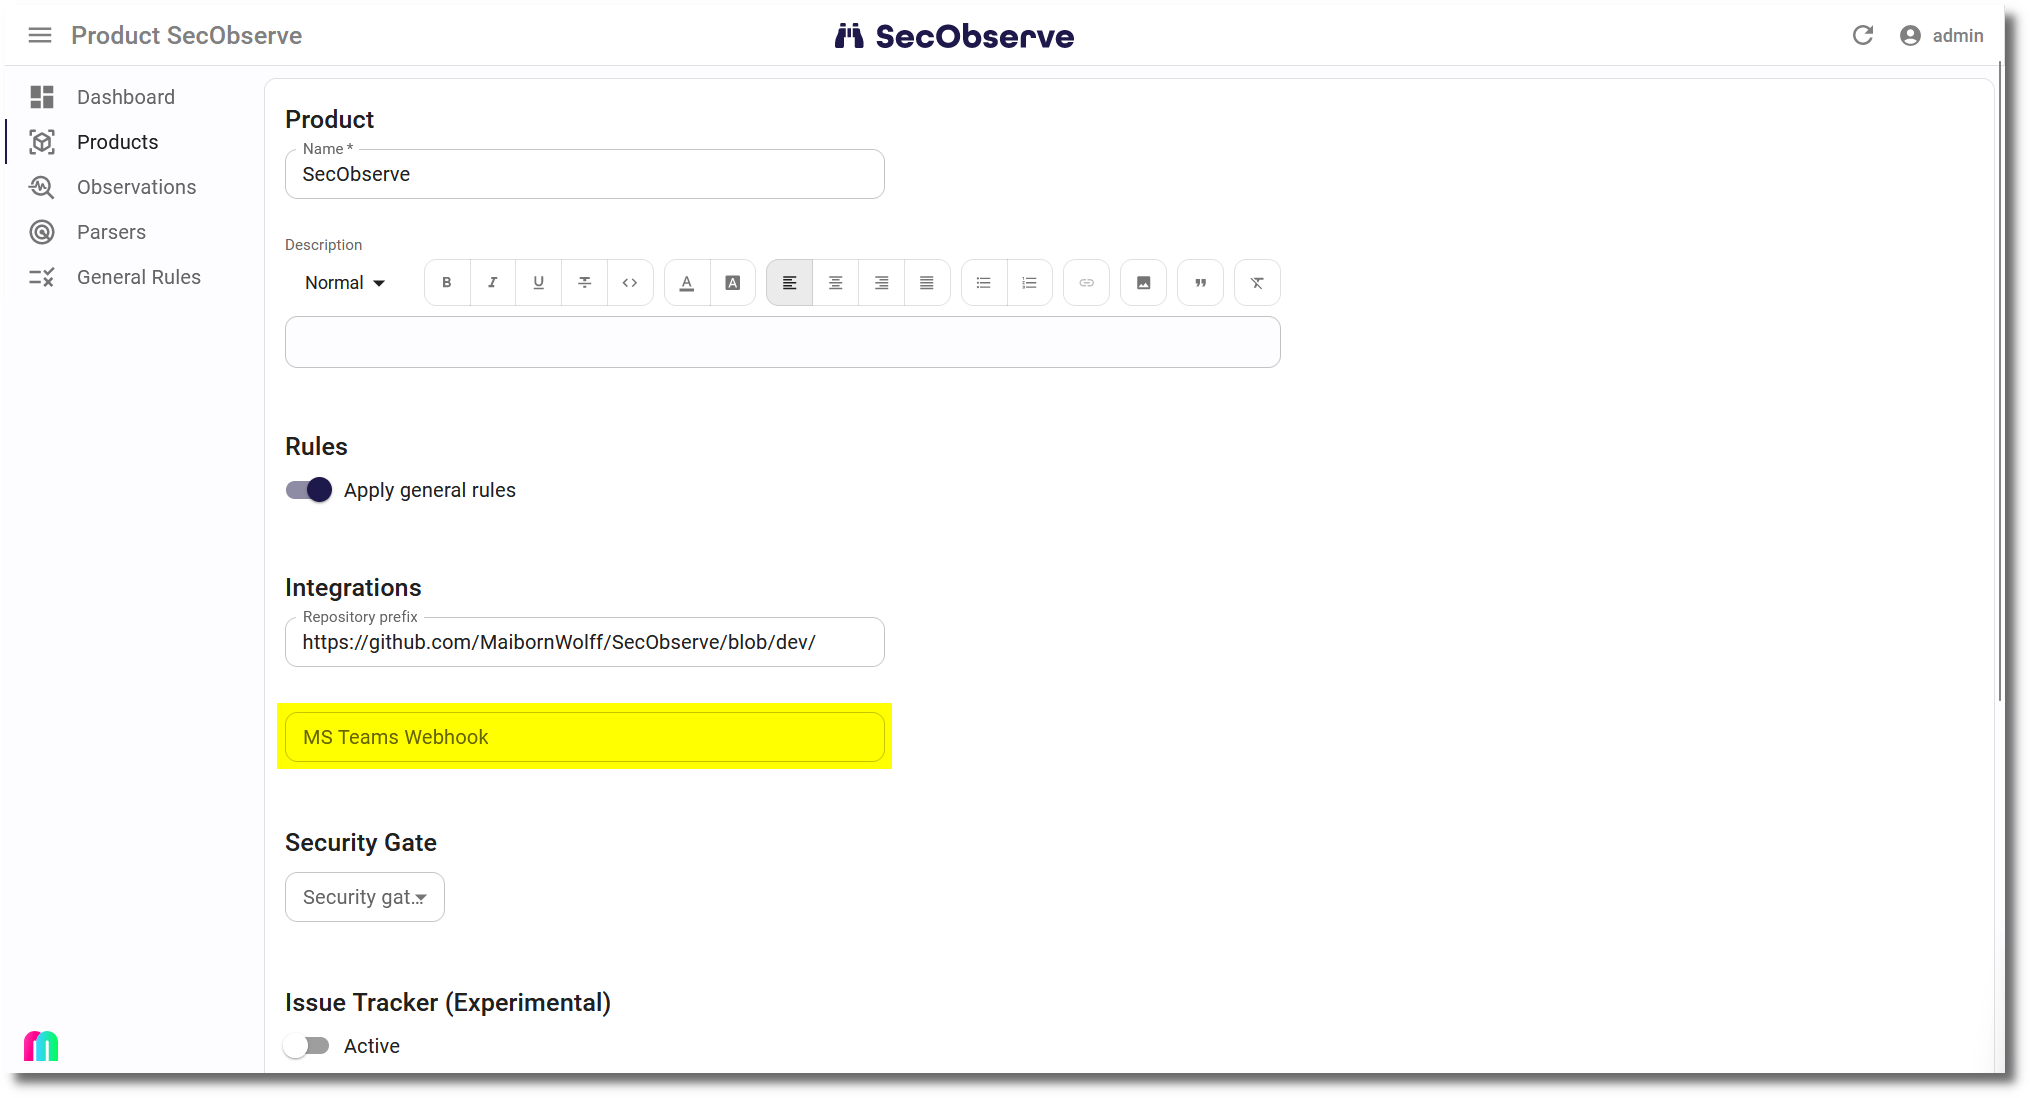
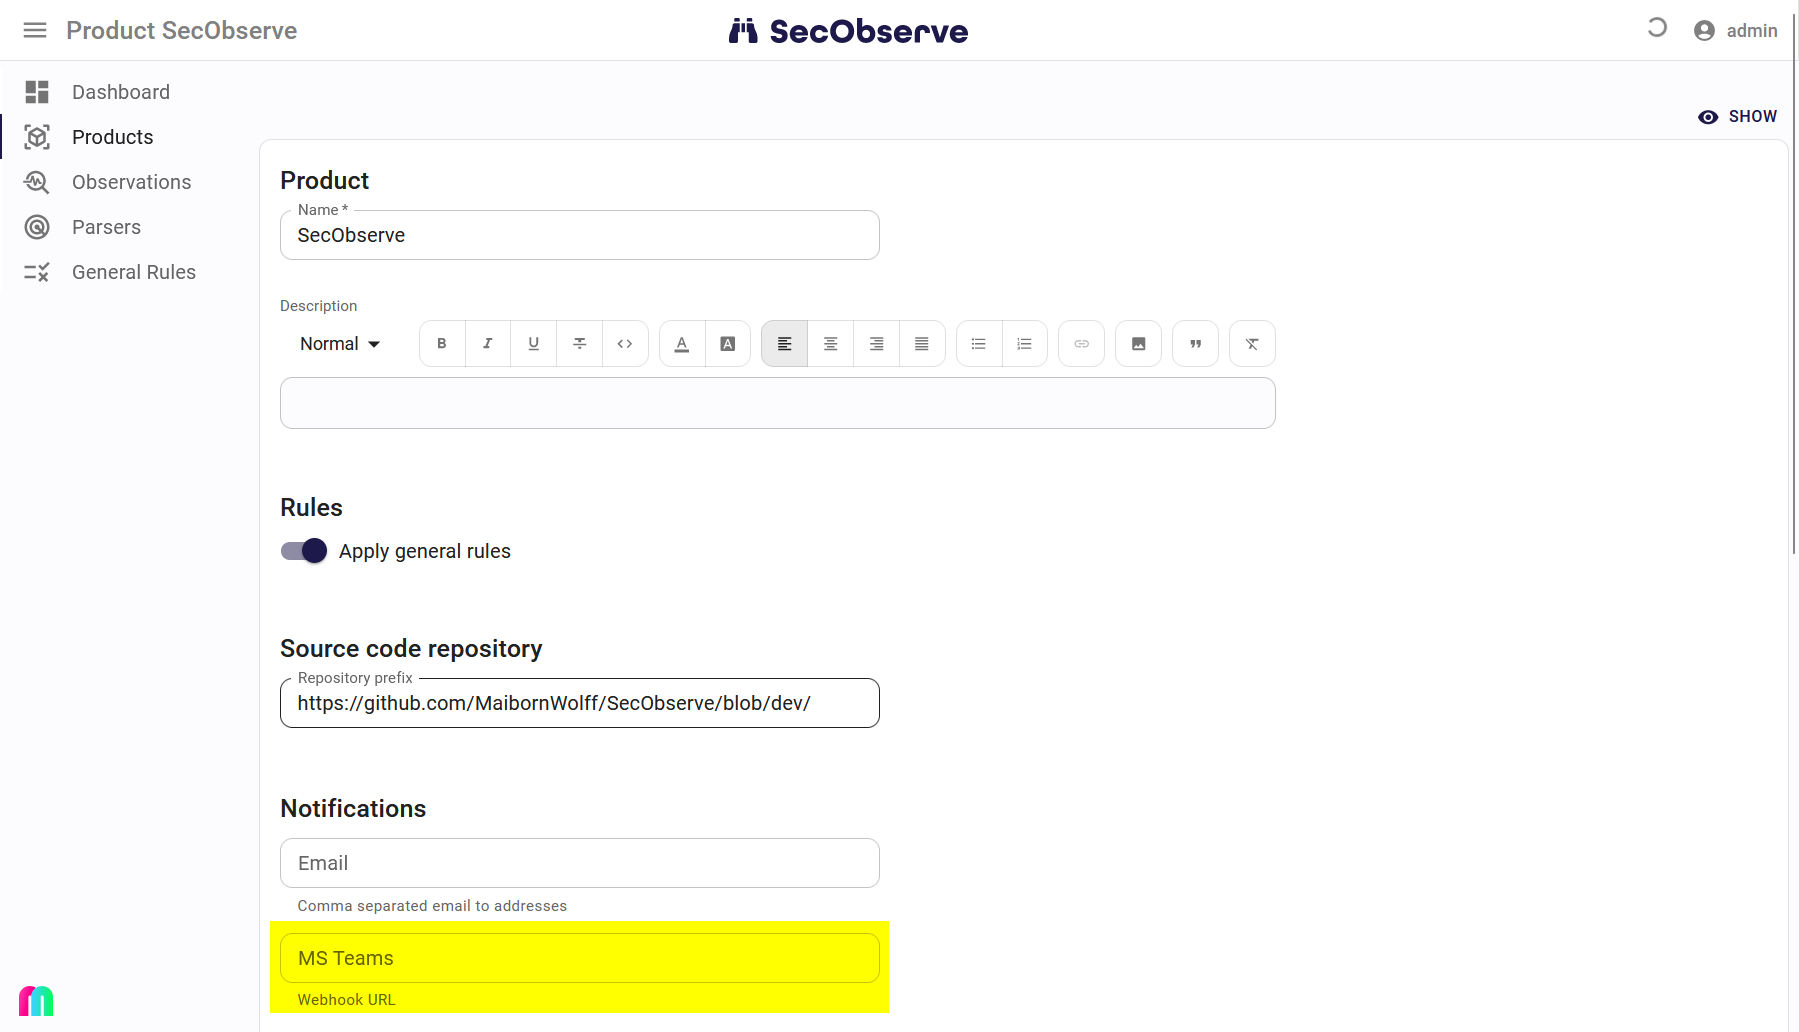
chore: documentation for notifications to email addresses

diff --git a/docs/integrations/notifications.md b/docs/integrations/notifications.md
@@ -1,23 +1,43 @@
-# Notifications to Microsoft Teams
+# Notifications
 
-SecObserve can send notifications to Microsoft Teams for two kinds of events:
+SecObserve can send notifications to email addresses abd Microsoft Teams channels for two kinds of events:
 
 * When the [security gate](../usage/security_gates.md) of a product changes.
 * When an exception occurs while processing a request.
 
-## Settings in Microsoft Teams
+##  Notifications to email addresses
+
+#### Settings in SecObserve
+
+The field `EMAIL_FROM` needs to be set in the Django Admin user interface to be able to send notifications to email addresses for both events. 
+
+#### Notifications for security gates
+
+When creating or editing a product, the field `Email` can be set in the *Notification* section with a comma separated list of email addresses. If the [security gate](../usage/security_gates.md) of the product changes and this field is filled, then a notification is sent each of the email addresses.
+
+![Email notification](../assets/images/screenshot_email.png)
+
+#### Notifications for exceptions
+
+An admistrator can configure the field `EXCEPTION_EMAIL_TO` in the Django Admin user interface. If an exception occurs while processing a request and this field is filled with a comma separated list of email addresses, a notifications is sent each of the email addresses before returning the HTTP code 500 via the REST API.
+
+There is a ratelimiting active to prevent flooding of email inboxes, if a series of exceptions occurs. The same exception is sent only once during a specified timedelta, which can be configured in the Django Admin user interface as well.
+
+##  Notifications to Microsoft Teams channels
+
+####  Settings in Microsoft Teams
 
 For both types of notifications an incoming webhook has to be set for a channel, where the notifications shall appear. How to do this is explained in [Create Incoming Webhooks](https://learn.microsoft.com/en-us/microsoftteams/platform/webhooks-and-connectors/how-to/add-incoming-webhook). Copy the URL of the webhook to the clipboard, to have it available to set it in SecObserve.
 
-![MS Teams notification](../assets/images/screenshot_ms_teams.png)
-
 The messages do not include mentions, but a user can set the "Channel notifications" to "All activities" in Teams, to get an active notification when an entry is generated. 
 
-## Notifications for security gates
+#### Notifications for security gates
 
-When creating or editing a product, the field `MS Teams Webhook` can be set. If the [security gate](../usage/security_gates.md) of the product changes and this field is filled with the copied webhook URL, then a notification is sent to Teams.
+When creating or editing a product, the field `MS Teams` can be set in the *Notification* section with the copied webhook URL. If the [security gate](../usage/security_gates.md) of the product changes and this field is filled, then a notification is sent to Microsoft Teams.
 
-## Notifications for exceptions
+![MS Teams notification](../assets/images/screenshot_ms_teams.png)
+
+#### Notifications for exceptions
 
 An admistrator can configure the field `EXCEPTION_MS_TEAMS_WEBHOOK` in the Django Admin user interface. If an exception occurs while processing a request and this field is filled with the copied webhook URL, a notifications is sent to Teams before returning the HTTP code 500 via the REST API.
 
